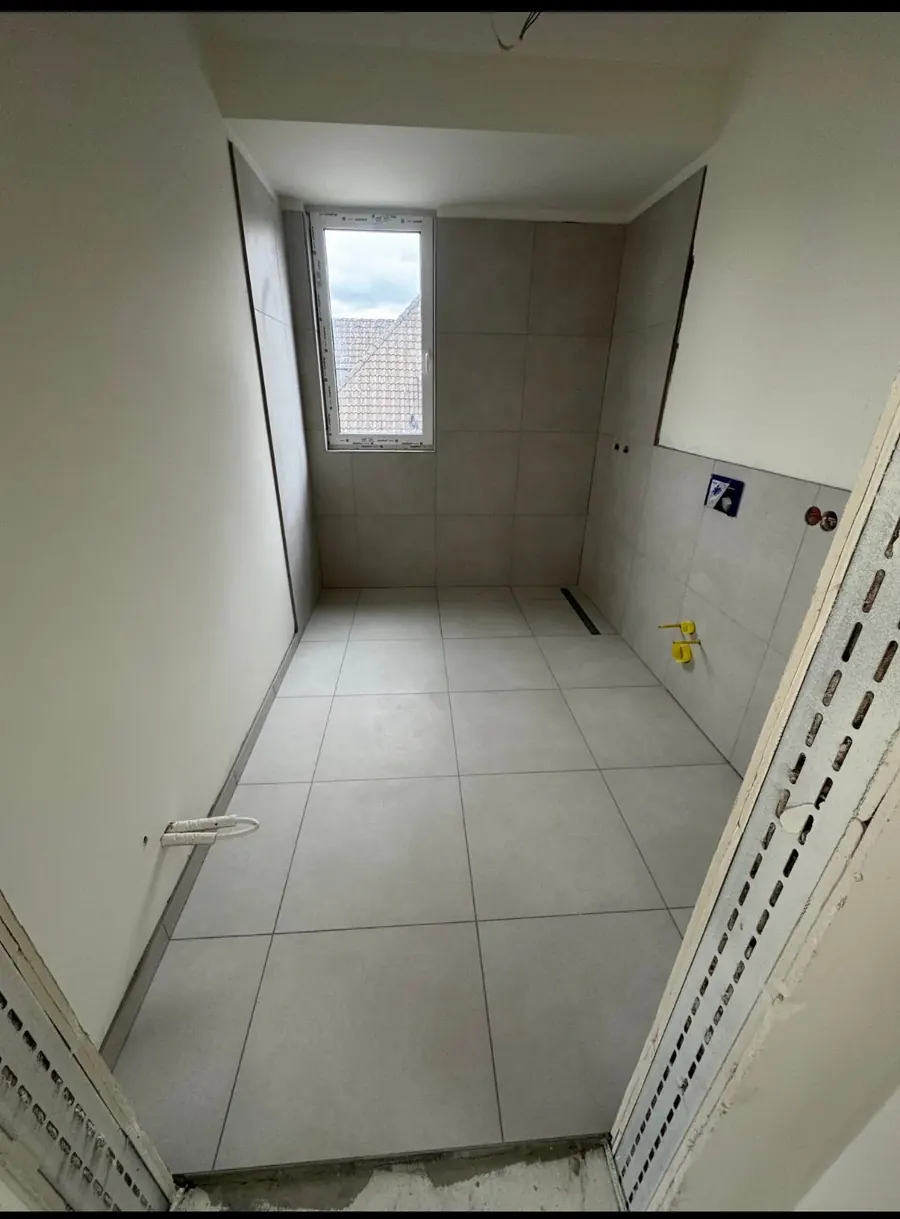
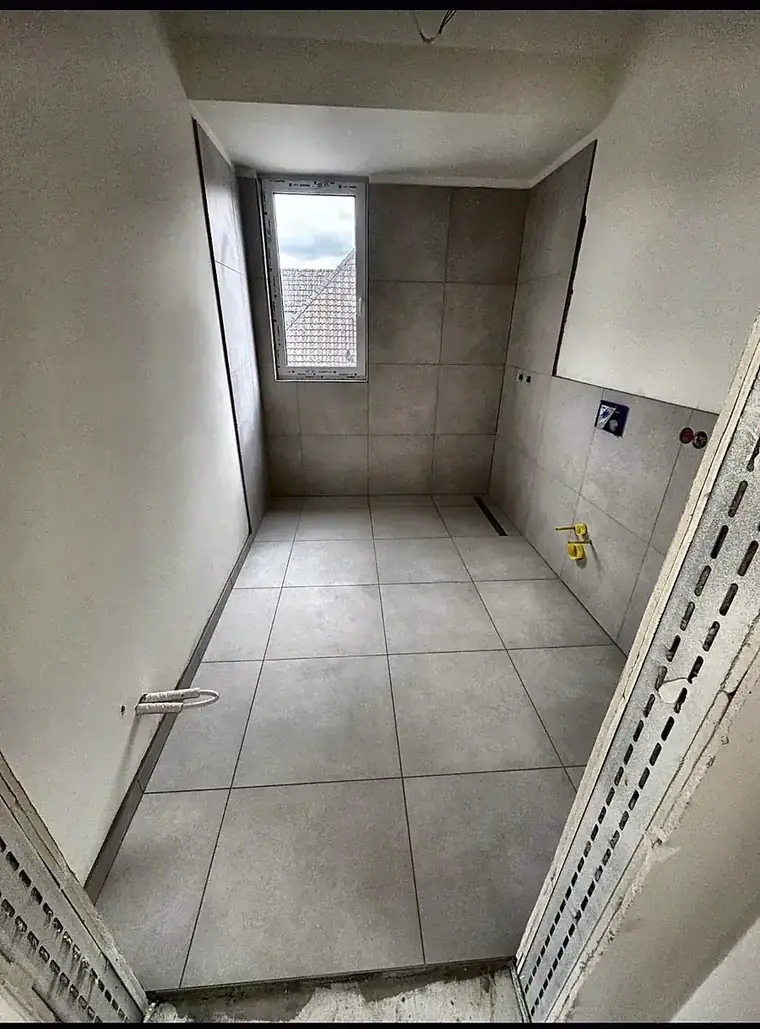
Bartels: Fotos aufbereitet, Detail-Band, Hero nachbelichtet
Kundenkritik an den Bildern aufgegriffen. Alle 13 Projektfotos technisch
vermessen und aufbereitet: begradigt, weissabgeglichen, Tonwerte gespreizt,
lokaler Kontrast, geschaerft. Kein Bild nutzte vorher den vollen Tonwertumfang,
10 hatten Farbstich.

Neu: Detail-Band mit drei Nahaufnahmen zu den Handwerks-Argumenten, als
Beispielbilder gekennzeichnet im Band und im Footer.

Hero und Hero-Detail laufen ueber Flux Kontext plus Hochskalieren. Muster
nachweislich unveraendert (mittlere Abweichung 13,6), tiefere Schwarztoene,
3840 px Quelle. Sichere Variante liegt in bilder/hero-vorher-sicher/.

diff --git a/sites/bartels/index.html b/sites/bartels/index.html
@@ -218,6 +218,13 @@ figure.shot figcaption small{font-size:13px;color:#DEDEDB;text-shadow:0 1px 3px 
 @media(max-width:560px){.partner-logos{grid-template-columns:1fr}.plogo{min-height:104px}}
 .partner-text{font-size:15px;color:#3C3E40;margin:0;max-width:38ch}
 
+/* Detail-Band: drei Nahaufnahmen zu den Handwerks-Argumenten.
+   Das sind Beispielaufnahmen, keine Projektfotos. Steht so im Footer. */
+.detailband{display:grid;grid-template-columns:repeat(3,1fr);gap:var(--s4);margin-top:var(--s7)}
+.detailband figure{margin:0}
+.detailband .quelle{grid-column:1/-1;font-size:13px;color:var(--grau-text);margin:var(--s3) 0 0}
+@media(max-width:760px){.detailband{grid-template-columns:1fr}}
+
 /* Split-Block */
 .split{display:grid;grid-template-columns:minmax(0,.95fr) minmax(0,1.05fr);gap:var(--s7);align-items:center}
 .split.rev{grid-template-columns:minmax(0,1.05fr) minmax(0,.95fr)}
@@ -378,10 +385,10 @@ footer li{margin-bottom:6px}
     </div>
     <div class="hero-shot">
       <figure class="shot">
-        <img src="bilder/fliesenleger-hannover-hero-altbau-ornamentboden.webp" alt="Ornamentboden aus Fliesen im Altbau-Flur in Hannover, Rautenfeld mit dunkler Bordüre und heller Einlegelinie" width="1600" height="1336" fetchpriority="high">
+        <img src="bilder/fliesenleger-hannover-hero-altbau-ornamentboden.webp" alt="Ornamentboden aus Fliesen im Altbau-Flur in Hannover, Rautenfeld mit dunkler Bordüre und heller Einlegelinie" width="1600" height="1298" fetchpriority="high">
       </figure>
       <div class="hero-makro">
-        <img src="bilder/fliesenleger-hannover-detail-bordure-einlegelinie.webp" alt="Detail der Bordüre mit heller Einlegelinie im Ornamentboden" width="560" height="512" fetchpriority="high">
+        <img src="bilder/fliesenleger-hannover-detail-bordure-einlegelinie.webp" alt="Detail der Bordüre mit heller Einlegelinie im Ornamentboden" width="560" height="627" fetchpriority="high">
       </div>
     </div>
   </div>
@@ -475,7 +482,7 @@ footer li{margin-bottom:6px}
 <section class="s-papier" id="altbau">
   <div class="wrap split">
     <figure class="shot r34">
-      <img src="bilder/fliesenleger-hannover-altbau-entkopplungsmatte.webp" alt="Entkopplungsmatte und Abdichtband auf altem Dielenboden in Hannover, vorbereitet für die Fliesenverlegung im Altbau" loading="lazy" width="1000" height="1333">
+      <img src="bilder/fliesenleger-hannover-altbau-entkopplungsmatte.webp" alt="Entkopplungsmatte und Abdichtband auf altem Dielenboden in Hannover, vorbereitet für die Fliesenverlegung im Altbau" loading="lazy" width="780" height="1040">
       <figcaption><b>Untergrund im Altbau</b><small>Entkopplung und Abdichtband, bevor die erste Fliese liegt</small></figcaption>
     </figure>
     <div>
@@ -509,35 +516,35 @@ footer li{margin-bottom:6px}
     </div>
     <div class="gal">
       <figure class="shot r32" data-kat="bad">
-        <img src="bilder/fliesenleger-hannover-galerie-bad-grossformat.webp" alt="Badezimmer in Hannover mit grauen Großformatfliesen an Wand und Boden, Vorwandinstallation verkleidet" loading="lazy" width="900" height="1200">
+        <img src="bilder/fliesenleger-hannover-galerie-bad-grossformat.webp" alt="Badezimmer in Hannover mit grauen Großformatfliesen an Wand und Boden, Vorwandinstallation verkleidet" loading="lazy" width="760" height="1013">
         <figcaption><b>Bad in Großformat</b><small>Wand und Boden gefliest, Vorwand verkleidet</small></figcaption>
       </figure>
       <figure class="shot r32" data-kat="dusche">
-        <img src="bilder/fliesenleger-hannover-galerie-bad-linienentwaesserung.webp" alt="Bodengleiche Dusche mit Linienentwässerung, Gefälle eingearbeitet, Rinne bündig eingebaut" loading="lazy" width="900" height="1190">
+        <img src="bilder/fliesenleger-hannover-galerie-bad-linienentwaesserung.webp" alt="Bodengleiche Dusche mit Linienentwässerung, Gefälle eingearbeitet, Rinne bündig eingebaut" loading="lazy" width="760" height="1005">
         <figcaption><b>Bodengleiche Dusche</b><small>Gefälle eingearbeitet, Rinne bündig</small></figcaption>
       </figure>
       <figure class="shot r32" data-kat="boden">
-        <img src="bilder/fliesenleger-hannover-galerie-boden-holzoptik-raute.webp" alt="Fliesen in Holzoptik im Rautenmuster verlegt, jede Platte einzeln eingepasst" loading="lazy" width="860" height="1147">
+        <img src="bilder/fliesenleger-hannover-galerie-boden-holzoptik-raute.webp" alt="Fliesen in Holzoptik im Rautenmuster verlegt, jede Platte einzeln eingepasst" loading="lazy" width="760" height="1014">
         <figcaption><b>Holzoptik im Rautenmuster</b><small>Jede Platte einzeln eingepasst</small></figcaption>
       </figure>
       <figure class="shot r32" data-kat="dusche">
-        <img src="bilder/fliesenleger-hannover-galerie-dusche-dachschraege.webp" alt="Bodengleiche Dusche unter der Dachschräge, hell gefliest, Armaturanschlüsse gesetzt" loading="lazy" width="900" height="1200">
+        <img src="bilder/fliesenleger-hannover-galerie-dusche-dachschraege.webp" alt="Bodengleiche Dusche unter der Dachschräge, hell gefliest, Armaturanschlüsse gesetzt" loading="lazy" width="760" height="1013">
         <figcaption><b>Dusche unter der Dachschräge</b><small>Bodengleich, Anschlüsse gesetzt</small></figcaption>
       </figure>
       <figure class="shot r32" data-kat="boden">
-        <img src="bilder/fliesenleger-hannover-galerie-altbau-musterboden.webp" alt="Musterboden aus Fliesen im Altbau, Rautenfeld mit Bordüre und dunkler Umrandung" loading="lazy" width="900" height="669">
+        <img src="bilder/fliesenleger-hannover-galerie-altbau-musterboden.webp" alt="Musterboden aus Fliesen im Altbau, Rautenfeld mit Bordüre und dunkler Umrandung" loading="lazy" width="800" height="669">
         <figcaption><b>Musterboden im Altbau</b><small>Rautenfeld mit Bordüre und Umrandung</small></figcaption>
       </figure>
       <figure class="shot r32" data-kat="bad">
-        <img src="bilder/fliesenleger-hannover-galerie-bad-dachfenster.webp" alt="Helles Badezimmer unter dem Dach in Hannover, frisch gefliest, Anschlüsse noch frei" loading="lazy" width="900" height="1210">
+        <img src="bilder/fliesenleger-hannover-galerie-bad-dachfenster.webp" alt="Helles Badezimmer unter dem Dach in Hannover, frisch gefliest, Anschlüsse noch frei" loading="lazy" width="760" height="1022">
         <figcaption><b>Bad unter dem Dach</b><small>Hell gefliest, Anschlüsse frei</small></figcaption>
       </figure>
       <figure class="shot r32" data-kat="dusche">
-        <img src="bilder/fliesenleger-hannover-galerie-dusche-nische.webp" alt="Bodengleiche Dusche mit eingefliester Wandnische, saubere Kanten und Anschlüsse" loading="lazy" width="900" height="1200">
+        <img src="bilder/fliesenleger-hannover-galerie-dusche-nische.webp" alt="Bodengleiche Dusche mit eingefliester Wandnische, saubere Kanten und Anschlüsse" loading="lazy" width="760" height="1013">
         <figcaption><b>Dusche mit Wandnische</b><small>Nische eingefliest, Kanten sauber</small></figcaption>
       </figure>
       <figure class="shot r32" data-kat="bad">
-        <img src="bilder/fliesenleger-hannover-galerie-bad-fenster.webp" alt="Badezimmer mit gefliester Fensterlaibung, Heizungsanschluss ausgespart" loading="lazy" width="900" height="1219">
+        <img src="bilder/fliesenleger-hannover-galerie-bad-fenster.webp" alt="Badezimmer mit gefliester Fensterlaibung, Heizungsanschluss ausgespart" loading="lazy" width="760" height="1029">
         <figcaption><b>Bad mit Fensterlaibung</b><small>Laibung gefliest, Anschlüsse ausgespart</small></figcaption>
       </figure>
     </div>
@@ -563,7 +570,7 @@ footer li{margin-bottom:6px}
       </div>
     </div>
     <figure class="shot r34">
-      <img src="bilder/fliesenleger-hannover-ablauf-badsanierung-rohbau.webp" alt="Badsanierung in Hannover während der Ausführung, Wandfliesen gesetzt, Anschlüsse für Armaturen vorbereitet" loading="lazy" width="1100" height="1467">
+      <img src="bilder/fliesenleger-hannover-ablauf-badsanierung-rohbau.webp" alt="Badsanierung in Hannover während der Ausführung, Wandfliesen gesetzt, Anschlüsse für Armaturen vorbereitet" loading="lazy" width="950" height="1267">
       <figcaption><b>Mitten in der Ausführung</b><small>Wand gefliest, Anschlüsse vorbereitet</small></figcaption>
     </figure>
   </div>
@@ -582,9 +589,25 @@ footer li{margin-bottom:6px}
       <div class="card"><h3>Ihre Wohnung bleibt bewohnbar</h3><p>Wege abgedeckt, Staub abgesaugt, abends besenrein. Ganz ohne Staub geht es nicht, aber er bleibt im Arbeitsbereich.</p></div>
       <div class="card"><h3>Material vom Fachhandel</h3><p>Fliesen über Keramundo, Bauchemie von PCI, Profile und Entkopplung von Schlüter-Systems. Sie suchen im Studio in Ruhe aus, wir bringen es mit.</p></div>
     </div>
+    <div class="detailband">
+      <figure class="shot r11">
+        <img src="bilder/fliesenleger-hannover-detail-kleberbett.webp" alt="Fliesenkleber in gleichmäßigen Rippen mit der Zahnkelle aufgezogen" loading="lazy" width="760" height="760">
+        <figcaption><b>Volle Auflage</b><small>Gleichmäßige Rippen, keine Hohlstellen</small></figcaption>
+      </figure>
+      <figure class="shot r11">
+        <img src="bilder/fliesenleger-hannover-detail-fugenkreuz.webp" alt="Präzises Fugenkreuz zwischen vier Fliesen" loading="lazy" width="760" height="760">
+        <figcaption><b>Vier Kanten, ein Punkt</b><small>Gleiche Fugenbreite über die ganze Fläche</small></figcaption>
+      </figure>
+      <figure class="shot r11">
+        <img src="bilder/fliesenleger-hannover-detail-silikonfuge.webp" alt="Silikonfuge wird mit dem Spachtel sauber gezogen" loading="lazy" width="760" height="760">
+        <figcaption><b>Die Fuge, die Sie sehen</b><small>Gezogen, nicht geschmiert</small></figcaption>
+      </figure>
+      <p class="quelle">Diese drei Nahaufnahmen sind Beispielbilder und zeigen die Arbeitsschritte. Alle Projektbilder auf dieser Seite sind eigene Aufnahmen.</p>
+    </div>
+
     <div class="split" style="margin-top:var(--s8);align-items:center">
       <figure class="shot r34">
-        <img src="bilder/fliesenleger-hannover-partner-schlueter-ditra-verlegt.webp" alt="Verlegte Entkopplungsmatte von Schlüter-Systems mit Abdichtband auf dem Untergrund" loading="lazy" width="860" height="1146">
+        <img src="bilder/fliesenleger-hannover-partner-schlueter-ditra-verlegt.webp" alt="Verlegte Entkopplungsmatte von Schlüter-Systems mit Abdichtband auf dem Untergrund" loading="lazy" width="720" height="959">
         <figcaption><b>Entkopplung und Abdichtung</b><small>Systemmaterial, kein Baumarktregal</small></figcaption>
       </figure>
       <div>
@@ -813,7 +836,7 @@ footer li{margin-bottom:6px}
     </div>
     <div class="f-linie"></div>
     <p class="entitaet">Das Fliesenlegerhandwerk Sandro Bartels ist ein Fliesenlegerfachbetrieb aus Hannover mit 35 Jahren Erfahrung. Der Betrieb übernimmt Fliesen- und Plattenarbeiten, Badsanierungen, bodengleiche Duschen, Großformat- und Feinsteinzeugverlegung, Dünnbett- und Dickbett-Sanierung im Altbau sowie Fugen- und Silikonarbeiten in Hannover und der Region Hannover.</p>
-    <p style="font-size:13px;color:#8E8E8B;margin-top:var(--s5)"><a href="impressum.html" style="color:var(--grau-invers);text-underline-offset:3px">Impressum</a> · <a href="datenschutz.html" style="color:var(--grau-invers);text-underline-offset:3px">Datenschutzerklärung</a> · Entwurf, noch nicht veröffentlicht. Alle Abbildungen zeigen eigene Arbeiten.</p>
+    <p style="font-size:13px;color:#8E8E8B;margin-top:var(--s5)"><a href="impressum.html" style="color:var(--grau-invers);text-underline-offset:3px">Impressum</a> · <a href="datenschutz.html" style="color:var(--grau-invers);text-underline-offset:3px">Datenschutzerklärung</a> · Entwurf, noch nicht veröffentlicht. Projektbilder zeigen eigene Arbeiten, drei Detailaufnahmen sind Beispielbilder.</p>
   </div>
 </footer>
 
